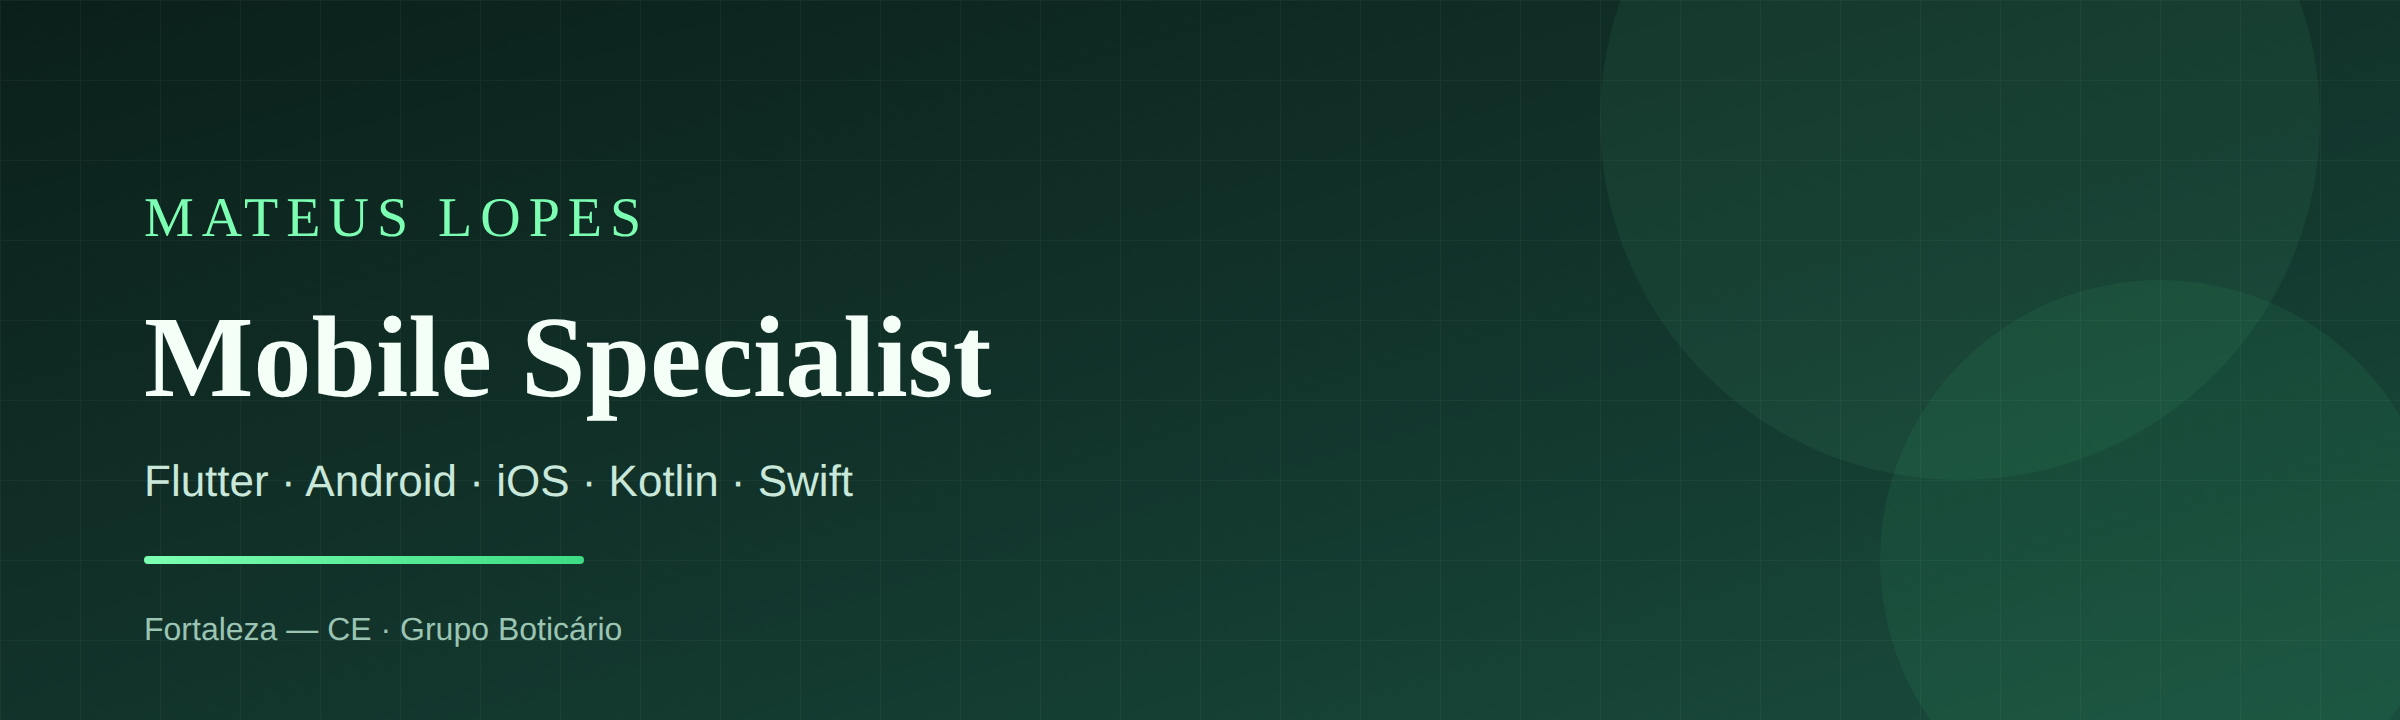
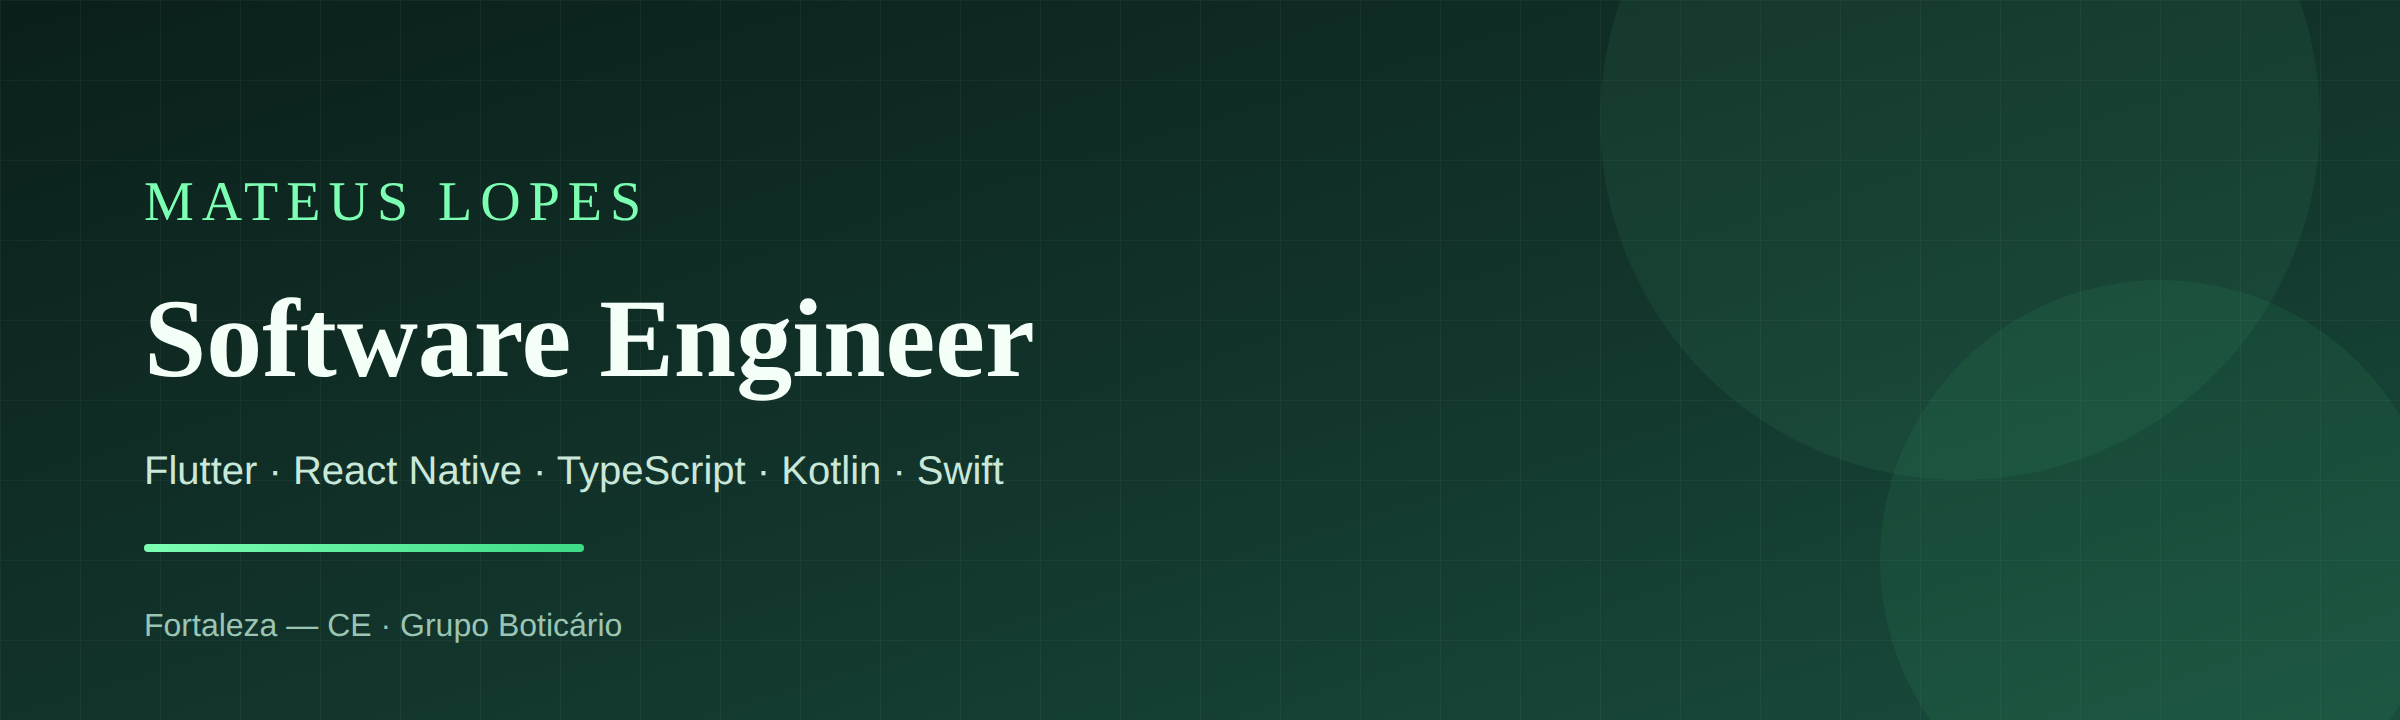
Reposicionar posicionamento multiplataforma e stack JS/TS/RN
Troca Mobile Specialist por Software Engineer, amplia o copy e inclui
JavaScript, TypeScript e React Native na stack e nos badges.

diff --git a/README.md b/README.md
@@ -1,12 +1,13 @@
 <p align="center">
-  <img src="./assets/banner.png" alt="Mateus Lopes — Mobile Specialist" width="100%"/>
+  <img src="./assets/banner.png" alt="Mateus Lopes — Software Engineer" width="100%"/>
 </p>
 
 <h1 align="center">Mateus Lopes</h1>
 
 <p align="center">
-  <strong>Developer Specialist I — Mobile</strong><br/>
-  Android · iOS · Flutter<br/>
+  <strong>Developer Specialist I</strong><br/>
+  Software Engineer · Multiplataforma<br/>
+  Flutter · React Native · TypeScript · Android · iOS<br/>
   <em>Grupo Boticário · Fortaleza, CE</em>
 </p>
 
@@ -21,9 +22,9 @@
 
 ### Sobre
 
-Especialista mobile com foco em **Flutter**, **Android** e **iOS**. Atuo como *Developer Specialist I* no **Grupo Boticário**, construindo e evoluindo produtos multiplataforma — da arquitetura nativa ao ecossistema Dart/Flutter.
+Engenheiro de software com atuação em produtos **multiplataforma** — do nativo (**Android** / **iOS**) ao ecossistema **Flutter**, **React Native**, **JavaScript** e **TypeScript**.
 
-Também exploro **Kotlin Multiplatform**, **Swift** e fundamentos de **Go**, sempre com olhar para arquitetura, UX e qualidade de código.
+Como *Developer Specialist I* no **Grupo Boticário**, desenho e evoluo soluções com foco em arquitetura, experiência do usuário e qualidade de código. Também trabalho com **Kotlin**, **Swift**, **Kotlin Multiplatform** e fundamentos de **Go**.
 
 ---
 
@@ -31,13 +32,18 @@ Também exploro **Kotlin Multiplatform**, **Swift** e fundamentos de **Go**, sem
 
 | Área | Tecnologias |
 | --- | --- |
-| **Mobile** | Flutter, Dart, Android, iOS, Kotlin, Swift, Kotlin Multiplatform (KMM) |
+| **Linguagens** | TypeScript, JavaScript, Dart, Kotlin, Swift, Go |
+| **Multiplataforma** | Flutter, React Native, Kotlin Multiplatform (KMM) |
+| **Mobile nativo** | Android, iOS |
 | **Estado & arquitetura** | GetX, Provider, RxDart, MVC / MVVM |
 | **Backend & dados** | Firebase (Auth, Firestore, Storage, Analytics), Dio, REST, sqflite |
 | **Ferramentas** | Xcode, Android Studio, VS Code, Git |
-| **Outros** | Go (estudo), Ionic (experiência profissional) |
+| **Outros** | Ionic |
 
 <p align="center">
+  <img src="https://img.shields.io/badge/TypeScript-3178C6?style=for-the-badge&logo=typescript&logoColor=white" alt="TypeScript"/>
+  <img src="https://img.shields.io/badge/JavaScript-F7DF1E?style=for-the-badge&logo=javascript&logoColor=black" alt="JavaScript"/>
+  <img src="https://img.shields.io/badge/React_Native-20232A?style=for-the-badge&logo=react&logoColor=61DAFB" alt="React Native"/>
   <img src="https://img.shields.io/badge/Flutter-02569B?style=for-the-badge&logo=flutter&logoColor=white" alt="Flutter"/>
   <img src="https://img.shields.io/badge/Dart-0175C2?style=for-the-badge&logo=dart&logoColor=white" alt="Dart"/>
   <img src="https://img.shields.io/badge/Android-3DDC84?style=for-the-badge&logo=android&logoColor=white" alt="Android"/>
@@ -53,12 +59,12 @@ Também exploro **Kotlin Multiplatform**, **Swift** e fundamentos de **Go**, sem
 ### Experiência
 
 - **Grupo Boticário** — *Developer Specialist I / Mobile Solution Architect*  
-  Produtos mobile com Flutter, Android e iOS.
+  Produtos multiplataforma com Flutter, Android, iOS e ecossistema JS/TS.
 - **Sou Energy** — *Liderança técnica*  
-  Desenvolvimento e facilitação em Flutter.
-- **Prolins IT Solution** — *Desenvolvedor Mobile*  
-  Apps com Flutter e Ionic, REST, MVC/MVVM.
-- **Unifor** — formação e projetos acadêmicos em mobile.
+  Desenvolvimento e facilitação técnica.
+- **Prolins IT Solution** — *Desenvolvedor*  
+  Apps com Flutter, Ionic, REST, MVC/MVVM.
+- **Unifor** — formação e projetos acadêmicos em software.
 
 ---
 
@@ -81,6 +87,6 @@ Artigos no [Medium](https://medium.com/@mateusdevelopes):
 ---
 
 <p align="center">
-  <sub>Fortaleza — CE · aberto a conversas sobre mobile, Flutter e arquitetura</sub><br/>
+  <sub>Fortaleza — CE · aberto a conversas sobre engenharia de software, multiplataforma e arquitetura</sub><br/>
   <a href="mailto:mateusdevelopes@gmail.com">mateusdevelopes@gmail.com</a>
 </p>
